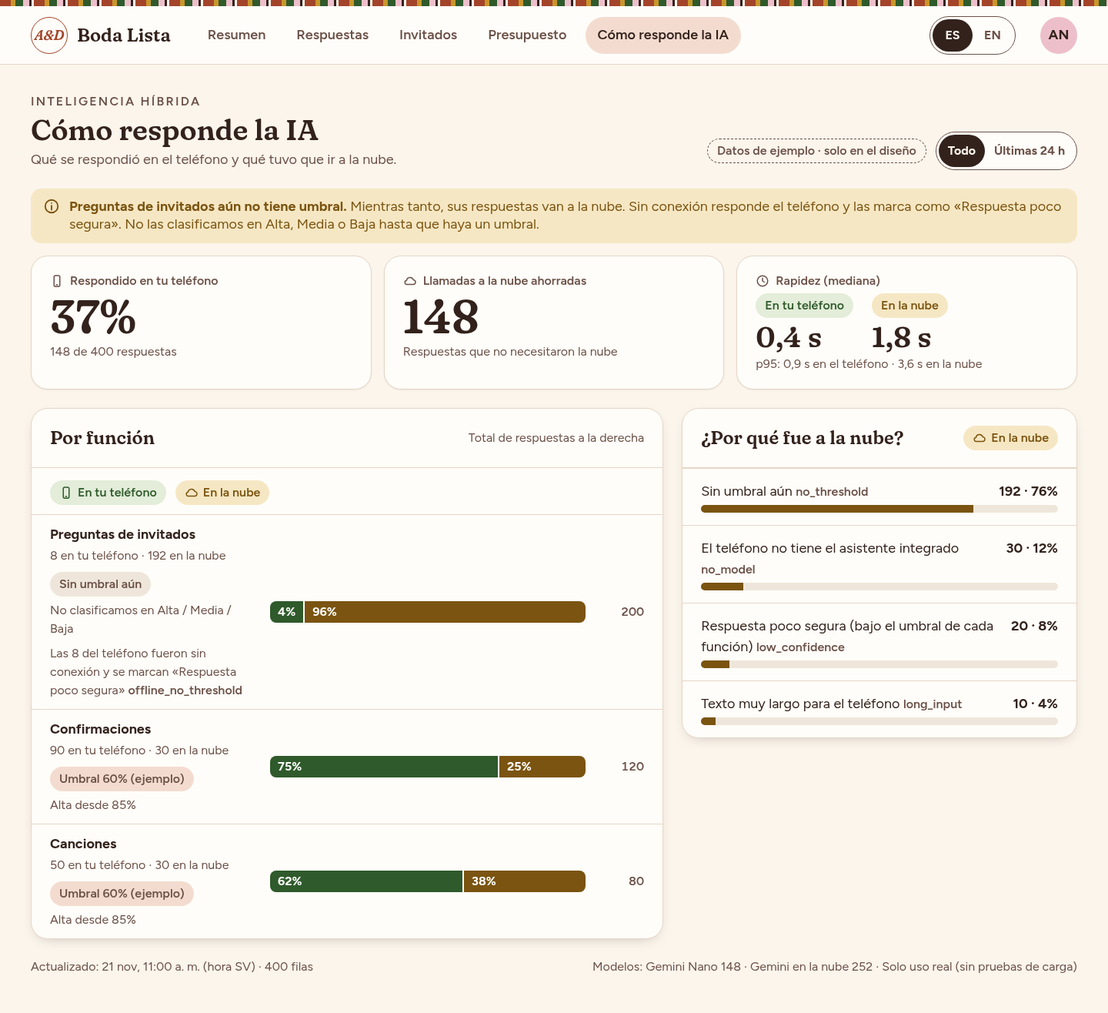
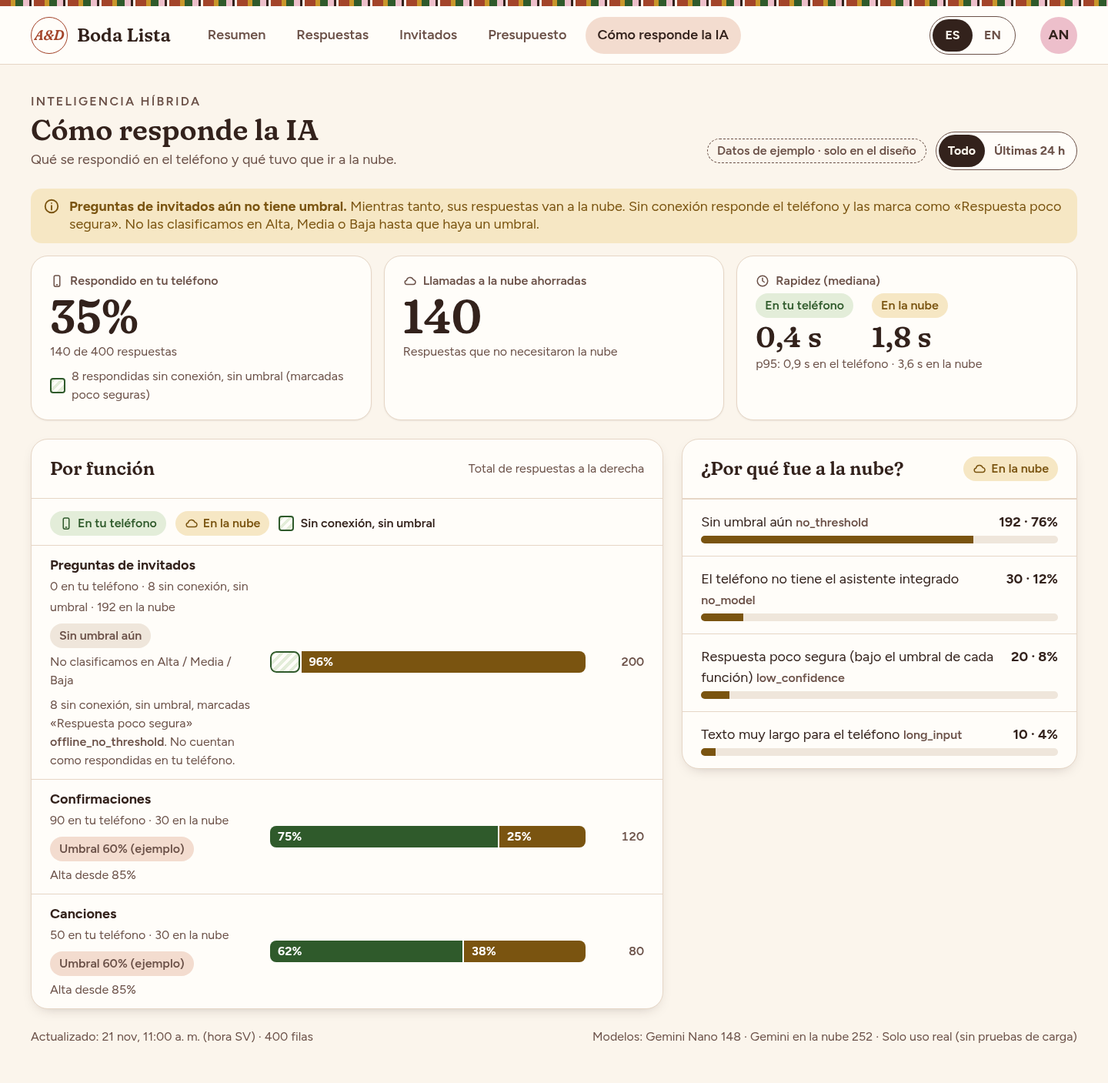
Count offline no-threshold answers separately from on-phone share

diff --git a/design/screens/ai-no-threshold-mobile.html b/design/screens/ai-no-threshold-mobile.html
@@ -56,7 +56,7 @@
 </style>
 </head><body>
 <div class="weave"></div><header class="appbar"><div class="brand" style="font-size:var(--text-lg)"><span class="mono">A&amp;D</span>Boda Lista</div><div class="seg" role="group" aria-label="Idioma"><span class="on">ES</span><span>EN</span></div></header><main class="wrapd"><div class="ph"><div><p class="eyebrow">Inteligencia híbrida</p><h1 class="display">Cómo responde la IA</h1><p>Qué se respondió en el teléfono y qué tuvo que ir a la nube.</p></div><div class="row wrap gap-3"><span class="mock-chip">Datos de ejemplo · solo en el diseño</span><div class="seg" role="group" aria-label="Periodo"><span class="on">Todo</span><span class="">Últimas 24 h</span></div></div></div><div class="banner banner-info" role="status" style="margin-bottom:var(--space-4)"><svg width="22" height="22" viewBox="0 0 24 24" fill="none" stroke="currentColor" stroke-width="2" stroke-linecap="round" stroke-linejoin="round" aria-hidden="true"><circle cx="12" cy="12" r="9"/><path d="M12 11v6M12 7.5h.01"/></svg><div style="flex:1"><b>Preguntas de invitados aún no tiene umbral.</b> Mientras tanto, sus respuestas van a la nube. Sin conexión responde el teléfono y las marca como «Respuesta poco segura». No las clasificamos en Alta, Media o Baja hasta que haya un umbral.</div></div><div class=""><div class="tiles">
-<div class="card tile"><span class="k"><svg width="18" height="18" viewBox="0 0 24 24" fill="none" stroke="currentColor" stroke-width="2" stroke-linecap="round" stroke-linejoin="round" aria-hidden="true"><rect x="7" y="2.5" width="10" height="19" rx="2.5"/><path d="M11 18.5h2"/></svg>Respondido en tu teléfono</span><span class="v">37%</span><span class="s">148 de 400 respuestas</span></div>
-<div class="card tile"><span class="k"><svg width="18" height="18" viewBox="0 0 24 24" fill="none" stroke="currentColor" stroke-width="2" stroke-linecap="round" stroke-linejoin="round" aria-hidden="true"><path d="M7 18h10a4 4 0 0 0 .6-8A6 6 0 0 0 6 11a3.5 3.5 0 0 0 1 7z"/></svg>Llamadas a la nube ahorradas</span><span class="v">148</span><span class="s">Respuestas que no necesitaron la nube</span></div>
-<div class="card tile"><span class="k"><svg width="18" height="18" viewBox="0 0 24 24" fill="none" stroke="currentColor" stroke-width="2" stroke-linecap="round" stroke-linejoin="round" aria-hidden="true"><circle cx="12" cy="12" r="9"/><path d="M12 7v5l3 2"/></svg>Rapidez (mediana)</span><div class="speed"><div><span class="badge badge-device">En tu teléfono</span><span class="v display" style="font-weight:600">0,4 s</span></div><div><span class="badge badge-cloud">En la nube</span><span class="v display" style="font-weight:600">1,8 s</span></div></div><span class="s">p95: 0,9 s en el teléfono · 3,6 s en la nube</span></div></div><div class="grid2"><section class="card"><div class="cardh"><h2>Por función</h2><span class="sm muted">Total de respuestas a la derecha</span></div><div class="legend2"><span class="badge badge-device"><svg width="18" height="18" viewBox="0 0 24 24" fill="none" stroke="currentColor" stroke-width="2" stroke-linecap="round" stroke-linejoin="round" aria-hidden="true"><rect x="7" y="2.5" width="10" height="19" rx="2.5"/><path d="M11 18.5h2"/></svg>En tu teléfono</span><span class="badge badge-cloud"><svg width="18" height="18" viewBox="0 0 24 24" fill="none" stroke="currentColor" stroke-width="2" stroke-linecap="round" stroke-linejoin="round" aria-hidden="true"><path d="M7 18h10a4 4 0 0 0 .6-8A6 6 0 0 0 6 11a3.5 3.5 0 0 0 1 7z"/></svg>En la nube</span></div><div style="margin-top:var(--space-3)"><div class="frow"><div class="lab"><b>Preguntas de invitados</b><span>8 en tu teléfono · 192 en la nube</span><div class="thr"><span class="conf-none">Sin umbral aún</span><span>No clasificamos en Alta / Media / Baja</span></div><div class="thr"><span>Las 8 del teléfono fueron sin conexión y se marcan «Respuesta poco segura» <code>offline_no_threshold</code></span></div></div><div class="split" role="img" aria-label="8 en tu teléfono, 192 en la nube"><span class="dev" style="flex:8">4%</span><span class="cld" style="flex:192">96%</span></div><span class="n">200</span></div><div class="frow"><div class="lab"><b>Confirmaciones</b><span>90 en tu teléfono · 30 en la nube</span><div class="thr"><span class="conf-none" style="background:var(--color-surface-alt)" title="Umbral de ejemplo de diseño">Umbral 60% (ejemplo)</span><span>Alta desde 85%</span></div></div><div class="split" role="img" aria-label="90 en tu teléfono, 30 en la nube"><span class="dev" style="flex:90">75%</span><span class="cld" style="flex:30">25%</span></div><span class="n">120</span></div><div class="frow"><div class="lab"><b>Canciones</b><span>50 en tu teléfono · 30 en la nube</span><div class="thr"><span class="conf-none" style="background:var(--color-surface-alt)" title="Umbral de ejemplo de diseño">Umbral 60% (ejemplo)</span><span>Alta desde 85%</span></div></div><div class="split" role="img" aria-label="50 en tu teléfono, 30 en la nube"><span class="dev" style="flex:50">62%</span><span class="cld" style="flex:30">38%</span></div><span class="n">80</span></div></div></section><section class="card"><div class="cardh"><h2>¿Por qué fue a la nube?</h2><span class="badge badge-cloud"><svg width="18" height="18" viewBox="0 0 24 24" fill="none" stroke="currentColor" stroke-width="2" stroke-linecap="round" stroke-linejoin="round" aria-hidden="true"><path d="M7 18h10a4 4 0 0 0 .6-8A6 6 0 0 0 6 11a3.5 3.5 0 0 0 1 7z"/></svg>En la nube</span></div><ul class="rs"><li><span>Sin umbral aún <code>no_threshold</code></span><b>192 · 76%</b><span class="bar"><i style="width:76.2%"></i></span></li><li><span>El teléfono no tiene el asistente integrado <code>no_model</code></span><b>30 · 12%</b><span class="bar"><i style="width:11.9%"></i></span></li><li><span>Respuesta poco segura (bajo el umbral de cada función) <code>low_confidence</code></span><b>20 · 8%</b><span class="bar"><i style="width:7.9%"></i></span></li><li><span>Texto muy largo para el teléfono <code>long_input</code></span><b>10 · 4%</b><span class="bar"><i style="width:4.0%"></i></span></li></ul></section></div><div class="foot"><span>Actualizado: 21 nov, 11:00 a. m. (hora SV) · 400 filas</span><span>Modelos: Gemini Nano 148 · Gemini en la nube 252 · Solo uso real (sin pruebas de carga)</span></div></div></main><nav class="tabbar" style="grid-template-columns:repeat(4,1fr)"><a class=""><svg width="24" height="24" viewBox="0 0 24 24" fill="none" stroke="currentColor" stroke-width="2" stroke-linecap="round" stroke-linejoin="round" aria-hidden="true"><path d="M4 11l8-7 8 7v9H4z"/><path d="M10 20v-5h4v5"/></svg>Inicio</a><a class=""><svg width="24" height="24" viewBox="0 0 24 24" fill="none" stroke="currentColor" stroke-width="2" stroke-linecap="round" stroke-linejoin="round" aria-hidden="true"><circle cx="9" cy="8" r="3.5"/><path d="M2.5 20a6.5 6.5 0 0 1 13 0"/><circle cx="17" cy="9" r="2.6"/><path d="M16.5 14.2A5 5 0 0 1 21.5 19"/></svg>Invitados</a><a class=""><svg width="24" height="24" viewBox="0 0 24 24" fill="none" stroke="currentColor" stroke-width="2" stroke-linecap="round" stroke-linejoin="round" aria-hidden="true"><path d="M4 7.5A2.5 2.5 0 0 1 6.5 5H18v3"/><rect x="4" y="8" width="16" height="11.5" rx="2.5"/><path d="M15.5 13.8h.01"/></svg>Presupuesto</a><a class="on"><svg width="24" height="24" viewBox="0 0 24 24" fill="none" stroke="currentColor" stroke-width="2" stroke-linecap="round" stroke-linejoin="round" aria-hidden="true"><path d="M4 20V4M4 20h16M8 16v-5M12 16V8M16 16v-3"/></svg>IA</a></nav>
+<div class="card tile"><span class="k"><svg width="18" height="18" viewBox="0 0 24 24" fill="none" stroke="currentColor" stroke-width="2" stroke-linecap="round" stroke-linejoin="round" aria-hidden="true"><rect x="7" y="2.5" width="10" height="19" rx="2.5"/><path d="M11 18.5h2"/></svg>Respondido en tu teléfono</span><span class="v">35%</span><span class="s">140 de 400 respuestas</span><span class="s" style="display:flex;align-items:center;gap:8px;margin-top:4px"><i class="swatch-off" aria-hidden="true"></i>8 respondidas sin conexión, sin umbral (marcadas poco seguras)</span></div>
+<div class="card tile"><span class="k"><svg width="18" height="18" viewBox="0 0 24 24" fill="none" stroke="currentColor" stroke-width="2" stroke-linecap="round" stroke-linejoin="round" aria-hidden="true"><path d="M7 18h10a4 4 0 0 0 .6-8A6 6 0 0 0 6 11a3.5 3.5 0 0 0 1 7z"/></svg>Llamadas a la nube ahorradas</span><span class="v">140</span><span class="s">Respuestas que no necesitaron la nube</span></div>
+<div class="card tile"><span class="k"><svg width="18" height="18" viewBox="0 0 24 24" fill="none" stroke="currentColor" stroke-width="2" stroke-linecap="round" stroke-linejoin="round" aria-hidden="true"><circle cx="12" cy="12" r="9"/><path d="M12 7v5l3 2"/></svg>Rapidez (mediana)</span><div class="speed"><div><span class="badge badge-device">En tu teléfono</span><span class="v display" style="font-weight:600">0,4 s</span></div><div><span class="badge badge-cloud">En la nube</span><span class="v display" style="font-weight:600">1,8 s</span></div></div><span class="s">p95: 0,9 s en el teléfono · 3,6 s en la nube</span></div></div><div class="grid2"><section class="card"><div class="cardh"><h2>Por función</h2><span class="sm muted">Total de respuestas a la derecha</span></div><div class="legend2"><span class="badge badge-device"><svg width="18" height="18" viewBox="0 0 24 24" fill="none" stroke="currentColor" stroke-width="2" stroke-linecap="round" stroke-linejoin="round" aria-hidden="true"><rect x="7" y="2.5" width="10" height="19" rx="2.5"/><path d="M11 18.5h2"/></svg>En tu teléfono</span><span class="badge badge-cloud"><svg width="18" height="18" viewBox="0 0 24 24" fill="none" stroke="currentColor" stroke-width="2" stroke-linecap="round" stroke-linejoin="round" aria-hidden="true"><path d="M7 18h10a4 4 0 0 0 .6-8A6 6 0 0 0 6 11a3.5 3.5 0 0 0 1 7z"/></svg>En la nube</span><span class="sm" style="display:inline-flex;align-items:center;gap:8px;font-weight:600"><i class="swatch-off" aria-hidden="true"></i>Sin conexión, sin umbral</span></div><div style="margin-top:var(--space-3)"><div class="frow"><div class="lab"><b>Preguntas de invitados</b><span>0 en tu teléfono · 8 sin conexión, sin umbral · 192 en la nube</span><div class="thr"><span class="conf-none">Sin umbral aún</span><span>No clasificamos en Alta / Media / Baja</span></div><div class="thr"><span>8 sin conexión, sin umbral, marcadas «Respuesta poco segura» <code>offline_no_threshold</code>. No cuentan como respondidas en tu teléfono.</span></div></div><div class="split" role="img" aria-label="0 en tu teléfono, 8 sin conexión sin umbral, 192 en la nube"><span class="off" style="flex:8" title="Sin conexión, sin umbral"></span><span class="cld" style="flex:192">96%</span></div><span class="n">200</span></div><div class="frow"><div class="lab"><b>Confirmaciones</b><span>90 en tu teléfono · 30 en la nube</span><div class="thr"><span class="conf-none" style="background:var(--color-surface-alt)" title="Umbral de ejemplo de diseño">Umbral 60% (ejemplo)</span><span>Alta desde 85%</span></div></div><div class="split" role="img" aria-label="90 en tu teléfono, 30 en la nube"><span class="dev" style="flex:90">75%</span><span class="cld" style="flex:30">25%</span></div><span class="n">120</span></div><div class="frow"><div class="lab"><b>Canciones</b><span>50 en tu teléfono · 30 en la nube</span><div class="thr"><span class="conf-none" style="background:var(--color-surface-alt)" title="Umbral de ejemplo de diseño">Umbral 60% (ejemplo)</span><span>Alta desde 85%</span></div></div><div class="split" role="img" aria-label="50 en tu teléfono, 30 en la nube"><span class="dev" style="flex:50">62%</span><span class="cld" style="flex:30">38%</span></div><span class="n">80</span></div></div></section><section class="card"><div class="cardh"><h2>¿Por qué fue a la nube?</h2><span class="badge badge-cloud"><svg width="18" height="18" viewBox="0 0 24 24" fill="none" stroke="currentColor" stroke-width="2" stroke-linecap="round" stroke-linejoin="round" aria-hidden="true"><path d="M7 18h10a4 4 0 0 0 .6-8A6 6 0 0 0 6 11a3.5 3.5 0 0 0 1 7z"/></svg>En la nube</span></div><ul class="rs"><li><span>Sin umbral aún <code>no_threshold</code></span><b>192 · 76%</b><span class="bar"><i style="width:76.2%"></i></span></li><li><span>El teléfono no tiene el asistente integrado <code>no_model</code></span><b>30 · 12%</b><span class="bar"><i style="width:11.9%"></i></span></li><li><span>Respuesta poco segura (bajo el umbral de cada función) <code>low_confidence</code></span><b>20 · 8%</b><span class="bar"><i style="width:7.9%"></i></span></li><li><span>Texto muy largo para el teléfono <code>long_input</code></span><b>10 · 4%</b><span class="bar"><i style="width:4.0%"></i></span></li></ul></section></div><div class="foot"><span>Actualizado: 21 nov, 11:00 a. m. (hora SV) · 400 filas</span><span>Modelos: Gemini Nano 148 · Gemini en la nube 252 · Solo uso real (sin pruebas de carga)</span></div></div></main><nav class="tabbar" style="grid-template-columns:repeat(4,1fr)"><a class=""><svg width="24" height="24" viewBox="0 0 24 24" fill="none" stroke="currentColor" stroke-width="2" stroke-linecap="round" stroke-linejoin="round" aria-hidden="true"><path d="M4 11l8-7 8 7v9H4z"/><path d="M10 20v-5h4v5"/></svg>Inicio</a><a class=""><svg width="24" height="24" viewBox="0 0 24 24" fill="none" stroke="currentColor" stroke-width="2" stroke-linecap="round" stroke-linejoin="round" aria-hidden="true"><circle cx="9" cy="8" r="3.5"/><path d="M2.5 20a6.5 6.5 0 0 1 13 0"/><circle cx="17" cy="9" r="2.6"/><path d="M16.5 14.2A5 5 0 0 1 21.5 19"/></svg>Invitados</a><a class=""><svg width="24" height="24" viewBox="0 0 24 24" fill="none" stroke="currentColor" stroke-width="2" stroke-linecap="round" stroke-linejoin="round" aria-hidden="true"><path d="M4 7.5A2.5 2.5 0 0 1 6.5 5H18v3"/><rect x="4" y="8" width="16" height="11.5" rx="2.5"/><path d="M15.5 13.8h.01"/></svg>Presupuesto</a><a class="on"><svg width="24" height="24" viewBox="0 0 24 24" fill="none" stroke="currentColor" stroke-width="2" stroke-linecap="round" stroke-linejoin="round" aria-hidden="true"><path d="M4 20V4M4 20h16M8 16v-5M12 16V8M16 16v-3"/></svg>IA</a></nav>
 </body></html>

diff --git a/design/screens/ai-no-threshold-desktop.html b/design/screens/ai-no-threshold-desktop.html
@@ -43,7 +43,7 @@
 </style>
 </head><body>
 <div class="weave"></div><header class="topnav"><div class="brand"><span class="mono">A&amp;D</span>Boda Lista</div><nav class="navlinks"><a class="">Resumen</a><a class="">Respuestas</a><a class="">Invitados</a><a class="">Presupuesto</a><a class="on">Cómo responde la IA</a></nav><div class="seg" role="group" aria-label="Idioma"><span class="on">ES</span><span>EN</span></div><div class="avatar" aria-label="Ana">AN</div></header><main class="wrapd"><div class="ph"><div><p class="eyebrow">Inteligencia híbrida</p><h1 class="display">Cómo responde la IA</h1><p>Qué se respondió en el teléfono y qué tuvo que ir a la nube.</p></div><div class="row wrap gap-3"><span class="mock-chip">Datos de ejemplo · solo en el diseño</span><div class="seg" role="group" aria-label="Periodo"><span class="on">Todo</span><span class="">Últimas 24 h</span></div></div></div><div class="banner banner-info" role="status" style="margin-bottom:var(--space-4)"><svg width="22" height="22" viewBox="0 0 24 24" fill="none" stroke="currentColor" stroke-width="2" stroke-linecap="round" stroke-linejoin="round" aria-hidden="true"><circle cx="12" cy="12" r="9"/><path d="M12 11v6M12 7.5h.01"/></svg><div style="flex:1"><b>Preguntas de invitados aún no tiene umbral.</b> Mientras tanto, sus respuestas van a la nube. Sin conexión responde el teléfono y las marca como «Respuesta poco segura». No las clasificamos en Alta, Media o Baja hasta que haya un umbral.</div></div><div class=""><div class="tiles">
-<div class="card tile"><span class="k"><svg width="18" height="18" viewBox="0 0 24 24" fill="none" stroke="currentColor" stroke-width="2" stroke-linecap="round" stroke-linejoin="round" aria-hidden="true"><rect x="7" y="2.5" width="10" height="19" rx="2.5"/><path d="M11 18.5h2"/></svg>Respondido en tu teléfono</span><span class="v">37%</span><span class="s">148 de 400 respuestas</span></div>
-<div class="card tile"><span class="k"><svg width="18" height="18" viewBox="0 0 24 24" fill="none" stroke="currentColor" stroke-width="2" stroke-linecap="round" stroke-linejoin="round" aria-hidden="true"><path d="M7 18h10a4 4 0 0 0 .6-8A6 6 0 0 0 6 11a3.5 3.5 0 0 0 1 7z"/></svg>Llamadas a la nube ahorradas</span><span class="v">148</span><span class="s">Respuestas que no necesitaron la nube</span></div>
-<div class="card tile"><span class="k"><svg width="18" height="18" viewBox="0 0 24 24" fill="none" stroke="currentColor" stroke-width="2" stroke-linecap="round" stroke-linejoin="round" aria-hidden="true"><circle cx="12" cy="12" r="9"/><path d="M12 7v5l3 2"/></svg>Rapidez (mediana)</span><div class="speed"><div><span class="badge badge-device">En tu teléfono</span><span class="v display" style="font-weight:600">0,4 s</span></div><div><span class="badge badge-cloud">En la nube</span><span class="v display" style="font-weight:600">1,8 s</span></div></div><span class="s">p95: 0,9 s en el teléfono · 3,6 s en la nube</span></div></div><div class="grid2"><section class="card"><div class="cardh"><h2>Por función</h2><span class="sm muted">Total de respuestas a la derecha</span></div><div class="legend2"><span class="badge badge-device"><svg width="18" height="18" viewBox="0 0 24 24" fill="none" stroke="currentColor" stroke-width="2" stroke-linecap="round" stroke-linejoin="round" aria-hidden="true"><rect x="7" y="2.5" width="10" height="19" rx="2.5"/><path d="M11 18.5h2"/></svg>En tu teléfono</span><span class="badge badge-cloud"><svg width="18" height="18" viewBox="0 0 24 24" fill="none" stroke="currentColor" stroke-width="2" stroke-linecap="round" stroke-linejoin="round" aria-hidden="true"><path d="M7 18h10a4 4 0 0 0 .6-8A6 6 0 0 0 6 11a3.5 3.5 0 0 0 1 7z"/></svg>En la nube</span></div><div style="margin-top:var(--space-3)"><div class="frow"><div class="lab"><b>Preguntas de invitados</b><span>8 en tu teléfono · 192 en la nube</span><div class="thr"><span class="conf-none">Sin umbral aún</span><span>No clasificamos en Alta / Media / Baja</span></div><div class="thr"><span>Las 8 del teléfono fueron sin conexión y se marcan «Respuesta poco segura» <code>offline_no_threshold</code></span></div></div><div class="split" role="img" aria-label="8 en tu teléfono, 192 en la nube"><span class="dev" style="flex:8">4%</span><span class="cld" style="flex:192">96%</span></div><span class="n">200</span></div><div class="frow"><div class="lab"><b>Confirmaciones</b><span>90 en tu teléfono · 30 en la nube</span><div class="thr"><span class="conf-none" style="background:var(--color-surface-alt)" title="Umbral de ejemplo de diseño">Umbral 60% (ejemplo)</span><span>Alta desde 85%</span></div></div><div class="split" role="img" aria-label="90 en tu teléfono, 30 en la nube"><span class="dev" style="flex:90">75%</span><span class="cld" style="flex:30">25%</span></div><span class="n">120</span></div><div class="frow"><div class="lab"><b>Canciones</b><span>50 en tu teléfono · 30 en la nube</span><div class="thr"><span class="conf-none" style="background:var(--color-surface-alt)" title="Umbral de ejemplo de diseño">Umbral 60% (ejemplo)</span><span>Alta desde 85%</span></div></div><div class="split" role="img" aria-label="50 en tu teléfono, 30 en la nube"><span class="dev" style="flex:50">62%</span><span class="cld" style="flex:30">38%</span></div><span class="n">80</span></div></div></section><section class="card"><div class="cardh"><h2>¿Por qué fue a la nube?</h2><span class="badge badge-cloud"><svg width="18" height="18" viewBox="0 0 24 24" fill="none" stroke="currentColor" stroke-width="2" stroke-linecap="round" stroke-linejoin="round" aria-hidden="true"><path d="M7 18h10a4 4 0 0 0 .6-8A6 6 0 0 0 6 11a3.5 3.5 0 0 0 1 7z"/></svg>En la nube</span></div><ul class="rs"><li><span>Sin umbral aún <code>no_threshold</code></span><b>192 · 76%</b><span class="bar"><i style="width:76.2%"></i></span></li><li><span>El teléfono no tiene el asistente integrado <code>no_model</code></span><b>30 · 12%</b><span class="bar"><i style="width:11.9%"></i></span></li><li><span>Respuesta poco segura (bajo el umbral de cada función) <code>low_confidence</code></span><b>20 · 8%</b><span class="bar"><i style="width:7.9%"></i></span></li><li><span>Texto muy largo para el teléfono <code>long_input</code></span><b>10 · 4%</b><span class="bar"><i style="width:4.0%"></i></span></li></ul></section></div><div class="foot"><span>Actualizado: 21 nov, 11:00 a. m. (hora SV) · 400 filas</span><span>Modelos: Gemini Nano 148 · Gemini en la nube 252 · Solo uso real (sin pruebas de carga)</span></div></div></main>
+<div class="card tile"><span class="k"><svg width="18" height="18" viewBox="0 0 24 24" fill="none" stroke="currentColor" stroke-width="2" stroke-linecap="round" stroke-linejoin="round" aria-hidden="true"><rect x="7" y="2.5" width="10" height="19" rx="2.5"/><path d="M11 18.5h2"/></svg>Respondido en tu teléfono</span><span class="v">35%</span><span class="s">140 de 400 respuestas</span><span class="s" style="display:flex;align-items:center;gap:8px;margin-top:4px"><i class="swatch-off" aria-hidden="true"></i>8 respondidas sin conexión, sin umbral (marcadas poco seguras)</span></div>
+<div class="card tile"><span class="k"><svg width="18" height="18" viewBox="0 0 24 24" fill="none" stroke="currentColor" stroke-width="2" stroke-linecap="round" stroke-linejoin="round" aria-hidden="true"><path d="M7 18h10a4 4 0 0 0 .6-8A6 6 0 0 0 6 11a3.5 3.5 0 0 0 1 7z"/></svg>Llamadas a la nube ahorradas</span><span class="v">140</span><span class="s">Respuestas que no necesitaron la nube</span></div>
+<div class="card tile"><span class="k"><svg width="18" height="18" viewBox="0 0 24 24" fill="none" stroke="currentColor" stroke-width="2" stroke-linecap="round" stroke-linejoin="round" aria-hidden="true"><circle cx="12" cy="12" r="9"/><path d="M12 7v5l3 2"/></svg>Rapidez (mediana)</span><div class="speed"><div><span class="badge badge-device">En tu teléfono</span><span class="v display" style="font-weight:600">0,4 s</span></div><div><span class="badge badge-cloud">En la nube</span><span class="v display" style="font-weight:600">1,8 s</span></div></div><span class="s">p95: 0,9 s en el teléfono · 3,6 s en la nube</span></div></div><div class="grid2"><section class="card"><div class="cardh"><h2>Por función</h2><span class="sm muted">Total de respuestas a la derecha</span></div><div class="legend2"><span class="badge badge-device"><svg width="18" height="18" viewBox="0 0 24 24" fill="none" stroke="currentColor" stroke-width="2" stroke-linecap="round" stroke-linejoin="round" aria-hidden="true"><rect x="7" y="2.5" width="10" height="19" rx="2.5"/><path d="M11 18.5h2"/></svg>En tu teléfono</span><span class="badge badge-cloud"><svg width="18" height="18" viewBox="0 0 24 24" fill="none" stroke="currentColor" stroke-width="2" stroke-linecap="round" stroke-linejoin="round" aria-hidden="true"><path d="M7 18h10a4 4 0 0 0 .6-8A6 6 0 0 0 6 11a3.5 3.5 0 0 0 1 7z"/></svg>En la nube</span><span class="sm" style="display:inline-flex;align-items:center;gap:8px;font-weight:600"><i class="swatch-off" aria-hidden="true"></i>Sin conexión, sin umbral</span></div><div style="margin-top:var(--space-3)"><div class="frow"><div class="lab"><b>Preguntas de invitados</b><span>0 en tu teléfono · 8 sin conexión, sin umbral · 192 en la nube</span><div class="thr"><span class="conf-none">Sin umbral aún</span><span>No clasificamos en Alta / Media / Baja</span></div><div class="thr"><span>8 sin conexión, sin umbral, marcadas «Respuesta poco segura» <code>offline_no_threshold</code>. No cuentan como respondidas en tu teléfono.</span></div></div><div class="split" role="img" aria-label="0 en tu teléfono, 8 sin conexión sin umbral, 192 en la nube"><span class="off" style="flex:8" title="Sin conexión, sin umbral"></span><span class="cld" style="flex:192">96%</span></div><span class="n">200</span></div><div class="frow"><div class="lab"><b>Confirmaciones</b><span>90 en tu teléfono · 30 en la nube</span><div class="thr"><span class="conf-none" style="background:var(--color-surface-alt)" title="Umbral de ejemplo de diseño">Umbral 60% (ejemplo)</span><span>Alta desde 85%</span></div></div><div class="split" role="img" aria-label="90 en tu teléfono, 30 en la nube"><span class="dev" style="flex:90">75%</span><span class="cld" style="flex:30">25%</span></div><span class="n">120</span></div><div class="frow"><div class="lab"><b>Canciones</b><span>50 en tu teléfono · 30 en la nube</span><div class="thr"><span class="conf-none" style="background:var(--color-surface-alt)" title="Umbral de ejemplo de diseño">Umbral 60% (ejemplo)</span><span>Alta desde 85%</span></div></div><div class="split" role="img" aria-label="50 en tu teléfono, 30 en la nube"><span class="dev" style="flex:50">62%</span><span class="cld" style="flex:30">38%</span></div><span class="n">80</span></div></div></section><section class="card"><div class="cardh"><h2>¿Por qué fue a la nube?</h2><span class="badge badge-cloud"><svg width="18" height="18" viewBox="0 0 24 24" fill="none" stroke="currentColor" stroke-width="2" stroke-linecap="round" stroke-linejoin="round" aria-hidden="true"><path d="M7 18h10a4 4 0 0 0 .6-8A6 6 0 0 0 6 11a3.5 3.5 0 0 0 1 7z"/></svg>En la nube</span></div><ul class="rs"><li><span>Sin umbral aún <code>no_threshold</code></span><b>192 · 76%</b><span class="bar"><i style="width:76.2%"></i></span></li><li><span>El teléfono no tiene el asistente integrado <code>no_model</code></span><b>30 · 12%</b><span class="bar"><i style="width:11.9%"></i></span></li><li><span>Respuesta poco segura (bajo el umbral de cada función) <code>low_confidence</code></span><b>20 · 8%</b><span class="bar"><i style="width:7.9%"></i></span></li><li><span>Texto muy largo para el teléfono <code>long_input</code></span><b>10 · 4%</b><span class="bar"><i style="width:4.0%"></i></span></li></ul></section></div><div class="foot"><span>Actualizado: 21 nov, 11:00 a. m. (hora SV) · 400 filas</span><span>Modelos: Gemini Nano 148 · Gemini en la nube 252 · Solo uso real (sin pruebas de carga)</span></div></div></main>
 </body></html>

diff --git a/design/screens/components.css b/design/screens/components.css
@@ -139,3 +139,6 @@ textarea.input{padding:var(--space-4);line-height:var(--leading-normal)}
 .money{font-variant-numeric:tabular-nums}
 /* No threshold yet (config cloud_cutoff/high is null): neutral chip, no Alta/Media/Baja */
 .conf-none{display:inline-flex;align-items:center;gap:6px;min-height:32px;padding:0 12px;border-radius:var(--radius-pill);background:var(--color-neutral-bg);color:var(--color-text);font-size:var(--text-sm);font-weight:var(--weight-semibold);white-space:nowrap}
+/* Offline answers for a task with no threshold (offline_no_threshold): route=device but NOT counted as a normal phone answer */
+.split .off{min-width:12px;background:repeating-linear-gradient(135deg,var(--color-device-bg) 0 4px,var(--color-surface) 4px 8px);border:2px solid var(--color-device-fg);border-radius:var(--radius-sm)}
+.swatch-off{display:inline-block;flex-shrink:0;width:20px;height:20px;border-radius:4px;vertical-align:middle;background:repeating-linear-gradient(135deg,var(--color-device-bg) 0 4px,var(--color-surface) 4px 8px);border:2px solid var(--color-device-fg)}

diff --git a/design/screens/src/ai.py b/design/screens/src/ai.py
@@ -8,17 +8,21 @@ DEV=sum(f[2] for f in FEAT); CLD=sum(f[3] for f in FEAT); N=DEV+CLD
 DEV24=sum(f[2] for f in FEAT24); CLD24=sum(f[3] for f in FEAT24); N24=DEV24+CLD24
 REASONS=[('no_model','El teléfono no tiene el asistente integrado',50),('low_confidence','Respuesta poco segura (bajo el umbral de cada función)',35),('long_input','Texto muy largo para el teléfono',15)]
 assert sum(r[2] for r in REASONS)==CLD and N>=MIN and N24<MIN
-LOADED=dict(FEAT=FEAT,REASONS=REASONS,DEV=DEV,CLD=CLD,N=N)
+OFF={}
+LOADED=dict(FEAT=FEAT,REASONS=REASONS,DEV=DEV,CLD=CLD,N=N,OFF={})
 # No-threshold EXAMPLE (Captain's rule): guest_question has null high/cloud_cutoff, so every answer goes to the cloud
 # (reason no_threshold) except when the phone is offline: Nano answers, labelled "Respuesta poco segura",
 # logged route=device reason=offline_no_threshold. rsvp/song use DESIGN-EXAMPLE cut-offs (config.json is null for all three until ML's PR).
+# offline_no_threshold rows are route=device but get their OWN count (panel spec v1.1): never in the on-phone share or cloud calls saved.
 NT_OFFLINE=8
-NT_FEAT=[('guest_question','Preguntas de invitados',NT_OFFLINE,192),('rsvp','Confirmaciones',90,30),('song','Canciones',50,30)]
-NT_DEV=sum(f[2] for f in NT_FEAT); NT_CLD=sum(f[3] for f in NT_FEAT); NT_N=NT_DEV+NT_CLD
+NT_FEAT=[('guest_question','Preguntas de invitados',0,192),('rsvp','Confirmaciones',90,30),('song','Canciones',50,30)]
+NT_OFF={'guest_question':NT_OFFLINE}
+NT_DEV=sum(f[2] for f in NT_FEAT); NT_CLD=sum(f[3] for f in NT_FEAT); NT_N=NT_DEV+NT_CLD+NT_OFFLINE
 NT_REASONS=[('no_threshold','Sin umbral aún',192),('no_model','El teléfono no tiene el asistente integrado',30),('low_confidence','Respuesta poco segura (bajo el umbral de cada función)',20),('long_input','Texto muy largo para el teléfono',10)]
-NOTHR=dict(FEAT=NT_FEAT,REASONS=NT_REASONS,DEV=NT_DEV,CLD=NT_CLD,N=NT_N)
+NOTHR=dict(FEAT=NT_FEAT,REASONS=NT_REASONS,DEV=NT_DEV,CLD=NT_CLD,N=NT_N,OFF=NT_OFF)
 EXAMPLE_THR={'rsvp':{'high':0.85,'cloud_cutoff':0.60},'song':{'high':0.85,'cloud_cutoff':0.60}}  # design example only
-assert NT_N==N and sum(r[2] for r in NT_REASONS)==NT_CLD
+assert NT_N==400 and (NT_DEV,NT_CLD,NT_OFFLINE)==(140,252,8) and NT_DEV+NT_CLD+NT_OFFLINE==NT_N and round(NT_DEV*100/NT_N)==35
+assert sum(r[2] for r in NT_REASONS)==NT_CLD and sum(NT_OFF.values())==NT_OFFLINE
 assert dict((r[0],r[2]) for r in NT_REASONS)['no_threshold']==NT_FEAT[0][3]  # all guest_question cloud answers are no_threshold
 assert sum(r[2] for r in NT_REASONS if r[0]!='no_threshold')==sum(f[3] for f in NT_FEAT[1:])
 assert not has_threshold(cfg('guest_question'))
@@ -82,6 +86,9 @@ def header(mobile,state):
     mock='<span class="mock-chip">Datos de ejemplo · solo en el diseño</span>' if state in('loaded','few','error','offline','nothr') else ''
     return f'''<div class="ph"><div><p class="eyebrow">Inteligencia híbrida</p><h1 class="display">Cómo responde la IA</h1><p>Qué se respondió en el teléfono y qué tuvo que ir a la nube.</p></div><div class="row wrap gap-3">{mock}{seg}</div></div>'''
 
+def off_line():
+    o=sum(OFF.values())
+    return f'<span class="s" style="display:flex;align-items:center;gap:8px;margin-top:4px"><i class="swatch-off" aria-hidden="true"></i>{o} respondidas sin conexión, sin umbral (marcadas poco seguras)</span>' if o else ''
 def tiles(state):
     if state=='loading':
         sk=lambda: '<div class="card tile"><span class="skeleton" style="width:60%;height:18px"></span><span class="skeleton" style="width:45%;height:56px;margin-top:8px"></span><span class="skeleton" style="width:70%;height:16px;margin-top:6px"></span></div>'
@@ -93,7 +100,7 @@ def tiles(state):
 <div class="card tile"><span class="k">{I("cloud",18)}Llamadas a la nube ahorradas</span><span class="v">{DEV24}</span><span class="s">Respuestas sin usar la nube en las últimas 24 h</span></div>
 <div class="card tile"><span class="k">{I("clock",18)}Rapidez</span><div class="speed"><div><span class="badge badge-device">En tu teléfono</span><b>{DEV24} respuestas</b></div><div><span class="badge badge-cloud">En la nube</span><b>{CLD24} respuestas</b></div></div>{fn}</div></div>'''
     return f'''<div class="tiles">
-<div class="card tile"><span class="k">{I("phone",18)}Respondido en tu teléfono</span><span class="v">{round(DEV*100/N)}%</span><span class="s">{DEV} de {N} respuestas</span></div>
+<div class="card tile"><span class="k">{I("phone",18)}Respondido en tu teléfono</span><span class="v">{round(DEV*100/N)}%</span><span class="s">{DEV} de {N} respuestas</span>{off_line()}</div>
 <div class="card tile"><span class="k">{I("cloud",18)}Llamadas a la nube ahorradas</span><span class="v">{DEV}</span><span class="s">Respuestas que no necesitaron la nube</span></div>
 <div class="card tile"><span class="k">{I("clock",18)}Rapidez (mediana)</span><div class="speed"><div><span class="badge badge-device">En tu teléfono</span><span class="v display" style="font-weight:600">0,4 s</span></div><div><span class="badge badge-cloud">En la nube</span><span class="v display" style="font-weight:600">1,8 s</span></div></div><span class="s">p95: 0,9 s en el teléfono · 3,6 s en la nube</span></div></div>'''
 
@@ -103,20 +110,25 @@ def featbars(state):
     rows=''
     data=FEAT24 if state=='few' else FEAT
     for k,name,d,c in data:
-        n=d+c
+        o=OFF.get(k,0) if state=='nothr' else 0
+        n=d+c+o
         if state=='loading':
             rows+=f'<div class="frow"><div class="lab"><span class="skeleton" style="width:150px;height:18px"></span></div><span class="skeleton" style="height:28px"></span><span class="skeleton" style="height:16px"></span></div>'; continue
         if n<MIN:
             bar=f'<div class="split"><span class="few">{"Sin respuestas todavía" if n==0 else "Pocos datos aún · "+str(n)+(" respuesta" if n==1 else " respuestas")}</span></div>'
         else:
-            bar=f'<div class="split" role="img" aria-label="{d} en tu teléfono, {c} en la nube"><span class="dev" style="flex:{d}">{round(d*100/n)}%</span><span class="cld" style="flex:{c}">{100-round(d*100/n)}%</span></div>'
+            if o:
+                segs=(f'<span class="dev" style="flex:{d}">{round(d*100/n)}%</span>' if d else '')+f'<span class="off" style="flex:{o}" title="Sin conexión, sin umbral"></span><span class="cld" style="flex:{c}">{round(c*100/n)}%</span>'
+                bar=f'<div class="split" role="img" aria-label="{d} en tu teléfono, {o} sin conexión sin umbral, {c} en la nube">{segs}</div>'
+            else:
+                bar=f'<div class="split" role="img" aria-label="{d} en tu teléfono, {c} en la nube"><span class="dev" style="flex:{d}">{round(d*100/n)}%</span><span class="cld" style="flex:{c}">{100-round(d*100/n)}%</span></div>'
         thr=''
         if state=='nothr':
             b=THR[k]
-            thr=(f'<div class="thr">{NO_THRESHOLD}<span>No clasificamos en Alta / Media / Baja</span></div><div class="thr"><span>Las {d} del teléfono fueron sin conexión y se marcan «Respuesta poco segura» <code>offline_no_threshold</code></span></div>' if not has_threshold(b)
+            thr=(f'<div class="thr">{NO_THRESHOLD}<span>No clasificamos en Alta / Media / Baja</span></div><div class="thr"><span>{o} sin conexión, sin umbral, marcadas «Respuesta poco segura» <code>offline_no_threshold</code>. No cuentan como respondidas en tu teléfono.</span></div>' if not has_threshold(b)
                  else f'<div class="thr"><span class="conf-none" style="background:var(--color-surface-alt)" title="Umbral de ejemplo de diseño">Umbral {round(b["cloud_cutoff"]*100)}% (ejemplo)</span><span>Alta desde {round(b["high"]*100)}%</span></div>')
-        rows+=f'<div class="frow"><div class="lab"><b>{name}</b><span>{d} en tu teléfono · {c} en la nube</span>{thr}</div>{bar}<span class="n">{n}</span></div>'
-    leg=f'<div class="legend2">{DEVICE}{CLOUD}</div>'
+        rows+=f'<div class="frow"><div class="lab"><b>{name}</b><span>{d} en tu teléfono · {(str(o)+" sin conexión, sin umbral · ") if o else ""}{c} en la nube</span>{thr}</div>{bar}<span class="n">{n}</span></div>'
+    leg=f'<div class="legend2">{DEVICE}{CLOUD}'+('<span class="sm" style="display:inline-flex;align-items:center;gap:8px;font-weight:600"><i class="swatch-off" aria-hidden="true"></i>Sin conexión, sin umbral</span>' if state=='nothr' and OFF else '')+'</div>'
     return f'<section class="card"><div class="cardh"><h2>Por función</h2><span class="sm muted">Total de respuestas a la derecha</span></div>{leg}<div style="margin-top:var(--space-3)">{rows}</div></section>'
 
 def reasons(state):
@@ -132,7 +144,7 @@ def foot(state):
     if state=='loading': return '<div class="foot" aria-live="polite"><span>Cargando…</span></div>'
     if state=='nothr': state='loaded'
     t={'loaded':f'21 nov, 11:00 a. m. (hora SV) · {N} filas','few':f'21 nov, 11:00 a. m. (hora SV) · {N24} filas en 24 h','error':f'21 nov, 9:00 a. m. (hora SV) · {N} filas · copia guardada','offline':f'21 nov, 11:00 a. m. (hora SV) · {N} filas · copia guardada'}[state]
-    return f'<div class="foot"><span>Actualizado: {t}</span><span>Modelos: Gemini Nano {DEV} · Gemini en la nube {CLD} · Solo uso real (sin pruebas de carga)</span></div>' if state!='few' else f'<div class="foot"><span>Actualizado: {t}</span><span>Modelos: Gemini Nano {DEV24} · Gemini en la nube {CLD24} · Solo uso real</span></div>'
+    return f'<div class="foot"><span>Actualizado: {t}</span><span>Modelos: Gemini Nano {DEV+sum(OFF.values())} · Gemini en la nube {CLD} · Solo uso real (sin pruebas de carga)</span></div>' if state!='few' else f'<div class="foot"><span>Actualizado: {t}</span><span>Modelos: Gemini Nano {DEV24} · Gemini en la nube {CLD24} · Solo uso real</span></div>'
 
 def body(state,mobile):
     if state=='empty':

diff --git a/design/tokens/tokens.md b/design/tokens/tokens.md
@@ -295,7 +295,7 @@ Rebuild: `cd screens/src && python3 guest.py && python3 couple.py && python3 ai.
   - `no_model` → "El teléfono no tiene el asistente integrado"
   - `low_confidence` → "Respuesta poco segura (bajo el umbral de cada función)". No percentage is shown, because each task has its own cut-off (and some may be null).
   - `no_threshold` → "Sin umbral aún". The task's `high` / `cloud_cutoff` is null, so **every answer goes to cloud Gemini** (Captain's routing rule). The row only appears when some task has no threshold.
-  - **Device-side reason `offline_no_threshold`** (not in this list, because the answer didn't go to the cloud): the task has no threshold and the phone is offline, so Nano answers anyway. The reply is labelled "Respuesta poco segura" and logged as route `device`, reason `offline_no_threshold`. The panel names it on the feature row.
+  - **Device-side reason `offline_no_threshold`** (not in this list, because the answer didn't go to the cloud): the task has no threshold and the phone is offline, so Nano answers anyway. The reply is labelled "Respuesta poco segura" and logged as route `device`, reason `offline_no_threshold`. **It gets its own count** (`/rollup → offline_no_threshold`, panel spec v1.1) and is **never** counted in "Respondido en tu teléfono" or "Llamadas a la nube ahorradas". On screen it appears as a separate tile line ("8 respondidas sin conexión, sin umbral (marcadas poco seguras)"), a hatched `.split .off` segment (cafetal-soft/surface stripes, 2px `--color-device-fg` border, min 12px, no % label, described in the bar's `aria-label`), a legend item "Sin conexión, sin umbral" with `.swatch-off`, and the row text. The model-mix footnote still counts these rows as Gemini Nano, because Nano produced them.
   - `long_input` → "Texto muy largo para el teléfono"
   - Each reason shows its count, its share and a thin bar. The raw reason key is shown for the team.
 - **Footer:** "Actualizado: 21 nov, 11:00 a. m. (hora SV) · 400 filas", with the model mix as a footnote ("Gemini Nano 300 · Gemini en la nube 100 · Solo uso real").
@@ -308,7 +308,7 @@ Rebuild: `cd screens/src && python3 guest.py && python3 couple.py && python3 ai.
   | Empty | ai-empty-* | izote, "Aún no hay preguntas", the explanation, a primary "Compartir enlace con invitados" button and a secondary "Pegar respuestas" button |
   | Error | ai-error-* | a `.banner-error` (`role="alert"`) reading "No pudimos actualizar. Te mostramos la última copia guardada, del 21 nov a las 9:00 a. m.", plus "Reintentar". The last snapshot sits below it under `.is-stale` (greyscale filter, so text contrast is unchanged), and the footer says "copia guardada". |
   | Offline | ai-offline-* | a `.banner-offline` (`role="status"`, wifi-off icon) reading "Sin conexión. Te mostramos la última copia guardada, del 21 nov a las 11:00 a. m. Se actualiza sola al volver la señal." The last snapshot sits below under `.is-stale`, and the footer says "copia guardada". There's no retry button, because it refreshes on reconnect. |
-  | Sin umbral aún (**fallback only**) | ai-no-threshold-* | Captain says `guest_question` gets a real cut-off on Tue Nov 24 from Data's dev split, so this state only shows if a task's cut-off is still null. Example data (mock chip kept): `guest_question` is null, so 8 answers on the phone (offline, `offline_no_threshold`) and 192 in the cloud (`no_threshold`). `rsvp` 90 / 30 and `song` 50 / 30 use design-example cut-offs, with chips reading "Umbral 60% (ejemplo)" and "Alta desde 85%". Tiles: 148 of 400 on the phone (37%), 148 cloud calls saved, 252 to the cloud. Reasons: no_threshold 192 (76%), no_model 30 (12%), low_confidence 20 (8%), long_input 10 (4%), summing to 252. `ai.py` asserts these totals, and that no_threshold equals guest_question's cloud count and the other reasons equal rsvp + song's cloud count. A `.banner-info` (`role="status"`) reads "Preguntas de invitados aún no tiene umbral. Mientras tanto, sus respuestas van a la nube. Sin conexión responde el teléfono y las marca como «Respuesta poco segura». No las clasificamos en Alta, Media o Baja hasta que haya un umbral." The null row shows the grey `.conf-none` "Sin umbral aún" chip, "No clasificamos en Alta / Media / Baja" and the offline note. **Only the Alta / Media / Baja split is hidden.** The device/cloud bar, latency and cloud reasons still show, because they come from the log's `route` field, not from the cut-off. |
+  | Sin umbral aún (**fallback only**) | ai-no-threshold-* | Captain says `guest_question` gets a real cut-off on Tue Nov 24 from Data's dev split, so this state only shows if a task's cut-off is still null. Example data (mock chip kept): `guest_question` is null, so 0 normal phone answers, 8 offline (`offline_no_threshold`, own count) and 192 in the cloud (`no_threshold`). `rsvp` 90 / 30 and `song` 50 / 30 use design-example cut-offs, with chips reading "Umbral 60% (ejemplo)" and "Alta desde 85%". Tiles: 140 of 400 on the phone (35%), 140 cloud calls saved, 252 to the cloud, plus the separate line for the 8 offline answers. Model mix: Gemini Nano 148 · Gemini en la nube 252. Reasons: no_threshold 192 (76%), no_model 30 (12%), low_confidence 20 (8%), long_input 10 (4%), summing to 252. `ai.py` asserts 140 + 252 + 8 = 400, 35% on the phone, these totals, and that no_threshold equals guest_question's cloud count and the other reasons equal rsvp + song's cloud count. A `.banner-info` (`role="status"`) reads "Preguntas de invitados aún no tiene umbral. Mientras tanto, sus respuestas van a la nube. Sin conexión responde el teléfono y las marca como «Respuesta poco segura». No las clasificamos en Alta, Media o Baja hasta que haya un umbral." The null row shows the grey `.conf-none` "Sin umbral aún" chip, "No clasificamos en Alta / Media / Baja" and the offline note ("8 sin conexión, sin umbral, marcadas «Respuesta poco segura» `offline_no_threshold`. No cuentan como respondidas en tu teléfono."). Panel spec v1.1 labels the chip "Sin umbral". We keep "Sin umbral aún", which Analytics OK'd in chat. **Only the Alta / Media / Baja split is hidden.** The device/cloud bar, latency and cloud reasons still show, because they come from the log's `route` field, not from the cut-off. |
   | Pocos datos aún | ai-few-* | the "Últimas 24 h" window with 12 answers (guest_question 6 / 2, rsvp 3 / 1, song 0 / 0): tiles show "9 de 12", every feature row is hatched, and the reasons show counts only (2 / 1 / 0) |
 
 ## 9. Vendors and budget (feature 3)
